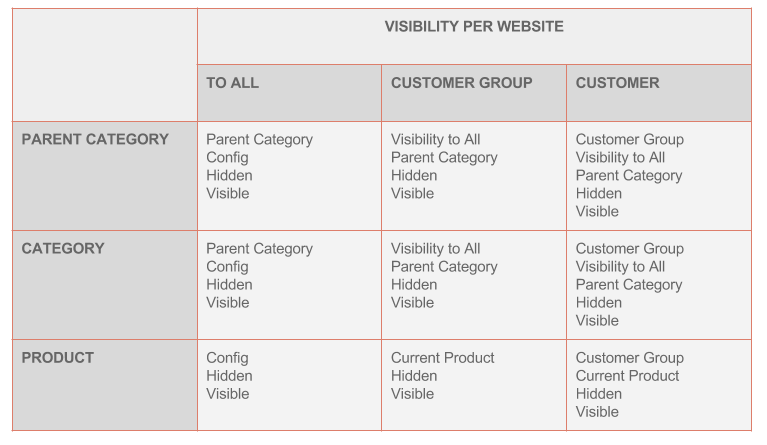
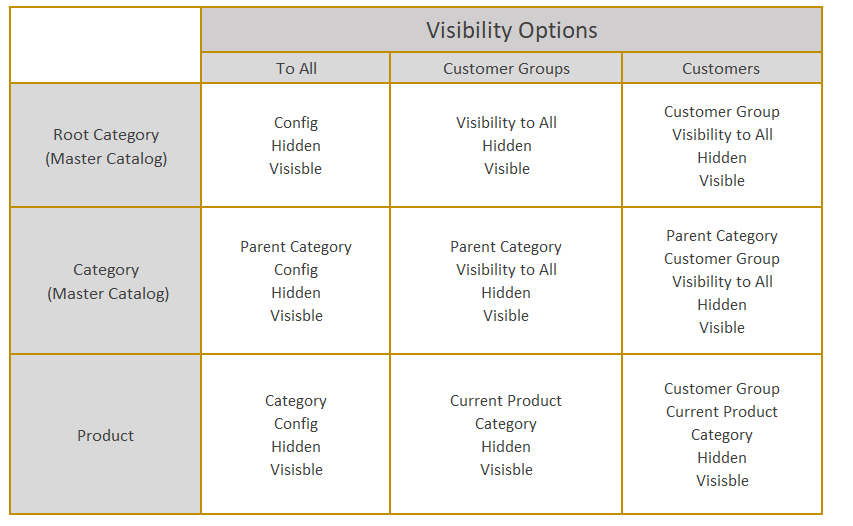
DOC-1028: Update the visibility options table (#21152)
* DOC-1028: Update the visibility options table

* DOC-1028: Changed img

Changed region(s): [[0.0, 0.0, 0.9896, 0.9933]]

diff --git a/commerce/user_guide/products/managing_product_visibility.rst b/commerce/user_guide/products/managing_product_visibility.rst
@@ -48,9 +48,14 @@ The following table summarizes visibility options per website:
 
 
 .. image:: /user_guide/img/products/products/product_visibility/product_visibility.png
-   :align: center
+   :alt: A table that summarizes visibility options per website
 
-Note that  the'config' visibility type sets system-wide visibility for products and categories for existing customers.
+The following schema illustrates all possible fallbacks where the solid lines define the fallbacks set by default.
+
+.. image:: /user_guide/img/products/products/product_visibility/product_visibility_fallbacks.png
+   :alt: A schema that illustrates all possible fallbacks
+
+.. note:: Keep in mind that the *config* visibility type sets system-wide visibility for products and categories for existing customers.
 
 
 Navigation to Visibility Settings
@@ -59,17 +64,14 @@ Navigation to Visibility Settings
 **In Product**: Navigate to **Products > Products** in the main menu, select a product to customize its visibility, and click **Manage visibility** on the top right (product menu).
 
 .. image:: /user_guide/img/products/products/product_visibility/ProductManageVisibility.png
-	:align: center
 
 **In Category**: Navigate to **Products > Master Catalog** in the main menu, select a category on the left, and scroll to the **Visibility** section.
 
 .. image:: /user_guide/img/products/products/product_visibility/CategoryVisibility.png
-	:align: center
 
 **In System Configuration**: Navigate to **System > Configuration** in the main menu. Select **Commerce > Customer > Visibility** on the left.
 
 .. image:: /user_guide/img/products/products/product_visibility/ConfigVisibility.png
-	:align: center
 
 Default Settings
 ~~~~~~~~~~~~~~~~
